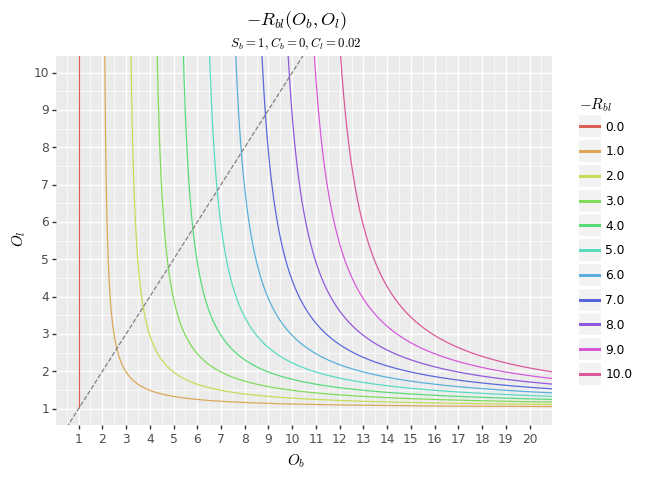
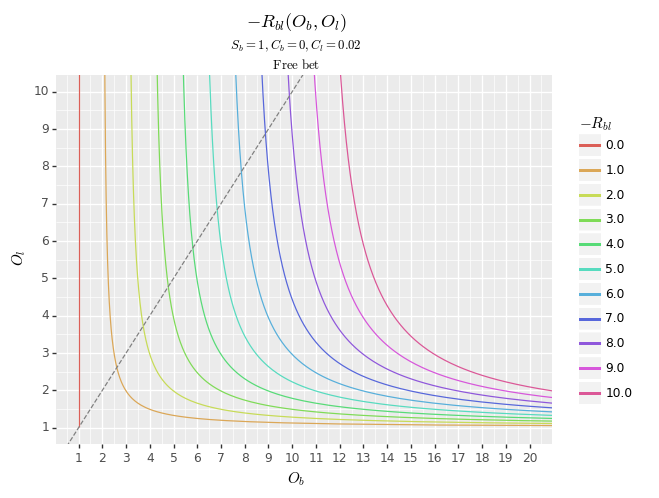
editing

diff --git a/images/matched-betting/plots.py b/images/matched-betting/plots.py
@@ -83,11 +83,15 @@ def liab_Ob_Ol_qual(liab):
 def dollars(s):
     return '$%s$' % (s,)
 
-def mathrm(s):
-    return ' '.join('$\\mathrm{%s}$' % (x,) for x in s.split())
+def mathrm(s, dollars=True):
+    d = '$' if dollars else ''
+    return r'%s\mathrm{%s}%s' % (d, r'\ '.join(s.split()), d)
 
-def titles(t, s=commission_string): # title, hacky subtitle
-    return gg.ggtitle('$%s$\n${}_{%s}$' % (t, s))
+def titles(t, *s): # title, hacky subtitles
+    if not s:
+        s = [commission_string]
+    s = ['${}_{%s}$' % (x,) for x in s]
+    return gg.ggtitle('\n'.join(['$%s$' % (t,)] + s))
 
 def colors(name):
     return gg.scale_color_hue(name=dollars(name),
@@ -228,7 +232,8 @@ def main():
 
     df = concat_map(liab_Ob_Ol_free, 'liab', np.linspace(0, 10, 11))
     save_both(my_plot(df, 'O_b', 'O_l', 'liab', clab='-R_{bl}')
-              + titles("-R_{bl}(O_b, O_l)", "S_b = 1, C_b = 0, C_l = 0.02")
+              + titles("-R_{bl}(O_b, O_l)", "S_b = 1, C_b = 0, C_l = 0.02",
+                       mathrm('Free bet', dollars=False))
               + limits((1,20), (1, 10))
               + gg.geom_line()
               + gg.geom_abline(slope=1, intercept=0,
@@ -237,14 +242,16 @@ def main():
 
     df = concat_map(liab_Ob_Ol_free, 'liab', np.linspace(0, 10, 11))
     save_both(my_plot(df, 'O_b', 'σ', 'liab', clab='-R_{bl}')
-              + titles("-R_{bl}(O_b, σ)", "S_b = 1, C_b = 0, C_l = 0.02")
+              + titles("-R_{bl}(O_b, σ)", "S_b = 1, C_b = 0, C_l = 0.02",
+                       mathrm('Free bet', dollars=False))
               + limits((1,20), (1, 10))
               + gg.geom_line()
               , 'liab_Ob_σ_free')
 
     df = concat_map(liab_Ob_Ol_qual, 'liab', np.linspace(0, 10, 11))
     save_both(my_plot(df, 'O_b', 'O_l', 'liab', clab='-R_{bl}')
-              + titles("-R_{bl}(O_b, O_l)", "S_b = 1, C_b = 0, C_l = 0.02")
+              + titles("-R_{bl}(O_b, O_l)", "S_b = 1, C_b = 0, C_l = 0.02",
+                       mathrm('Qualifying bet', dollars=False))
               + limits((1,20), (1, 10))
               + gg.geom_line()
               + gg.geom_abline(slope=1, intercept=0,
@@ -253,7 +260,8 @@ def main():
 
     df = concat_map(liab_Ob_Ol_qual, 'liab', np.linspace(0, 10, 11))
     save_both(my_plot(df, 'O_b', 'σ', 'liab', clab='-R_{bl}')
-              + titles("-R_{bl}(O_b, σ)", "S_b = 1, C_b = 0, C_l = 0.02")
+              + titles("-R_{bl}(O_b, σ)", "S_b = 1, C_b = 0, C_l = 0.02",
+                       mathrm('Qualifying bet', dollars=False))
               + limits((1,20), (1, 10))
               + gg.geom_line()
               , 'liab_Ob_σ_qual')

diff --git a/drafts/matched-betting.md b/drafts/matched-betting.md
@@ -139,7 +139,7 @@ for a free bet.
 <a href="/images/matched-betting/liab_Ob_Ol_qual.png"><img src="/images/matched-betting/liab_Ob_Ol_qual.small.png" alt="(Graph of liability(O_b, O_l), qualifying bet)" style="width: 45%"></a>
 <a href="/images/matched-betting/liab_Ob_Ol_free.png"><img src="/images/matched-betting/liab_Ob_Ol_free.small.png" alt="(Graph of liability(O_b, σ), free bet)" style="width: 45%"></a>
 
-*(I made the graphs in $σ$ as well, but they're <a href="/images/matched-betting/liab_Ob_σ_qual.png">too</a> <a href="/images/matched-betting/liab_Ob_σ_boring.png">boring</a> to include inline)*
+*(I made the graphs in $σ$ as well, but they're <a href="/images/matched-betting/liab_Ob_σ_qual.png">too</a> <a href="/images/matched-betting/liab_Ob_σ_free.png">boring</a> to include inline)*
 
 Unlike profit, liability increases with both $O_b$ and $O_l$. But it increases arbitrarily with $O_b$, and asymtotically with $O_l$; it's bounded above by roughly $S_b O_b$ for a qualifying bet and $S_b (O_b - 1)$ for a free bet. (If the graphs were extended further, as they stretch upwards the lines would become ever more vertical, but they'd always stay separate. To the right, the lines would become ever more horizontal, all of them converging on $O_l = 1$.)
 
